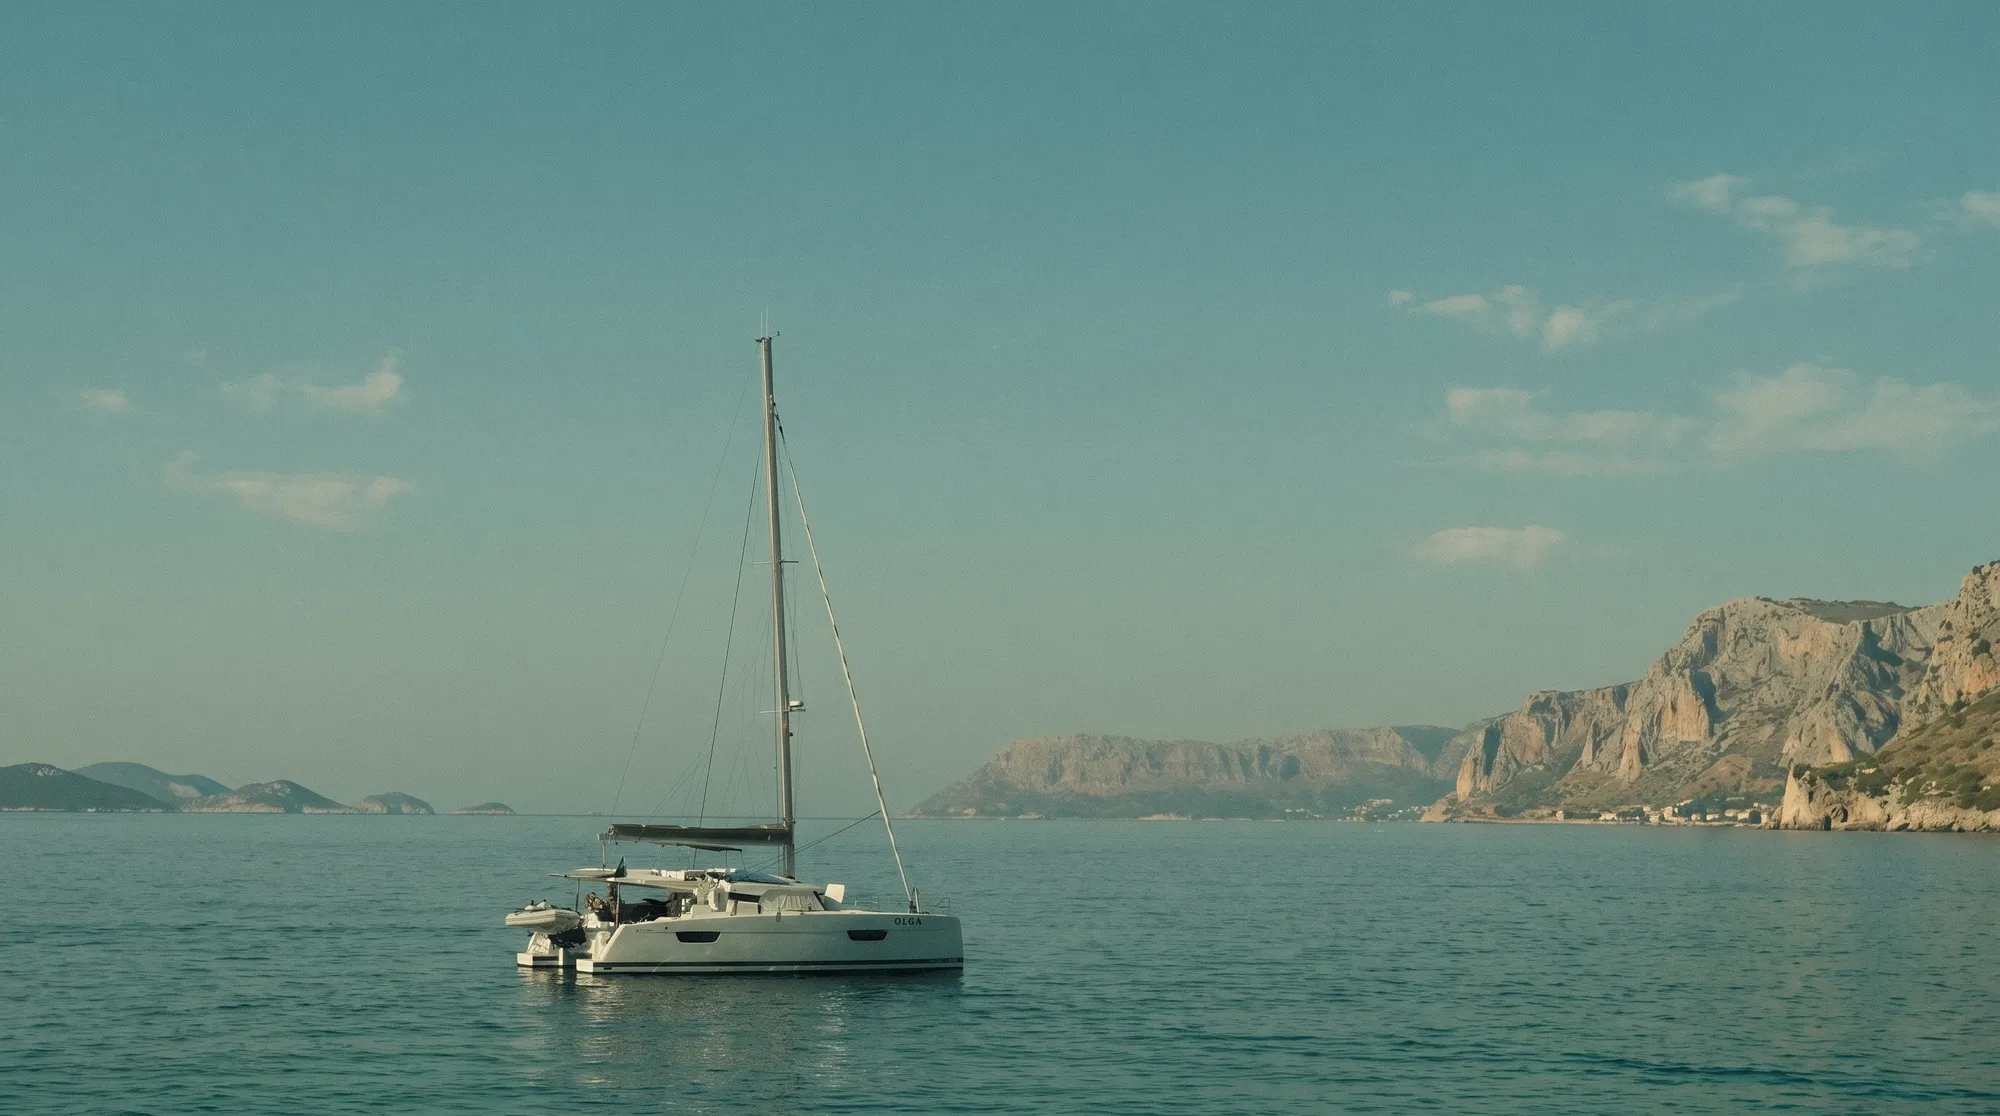
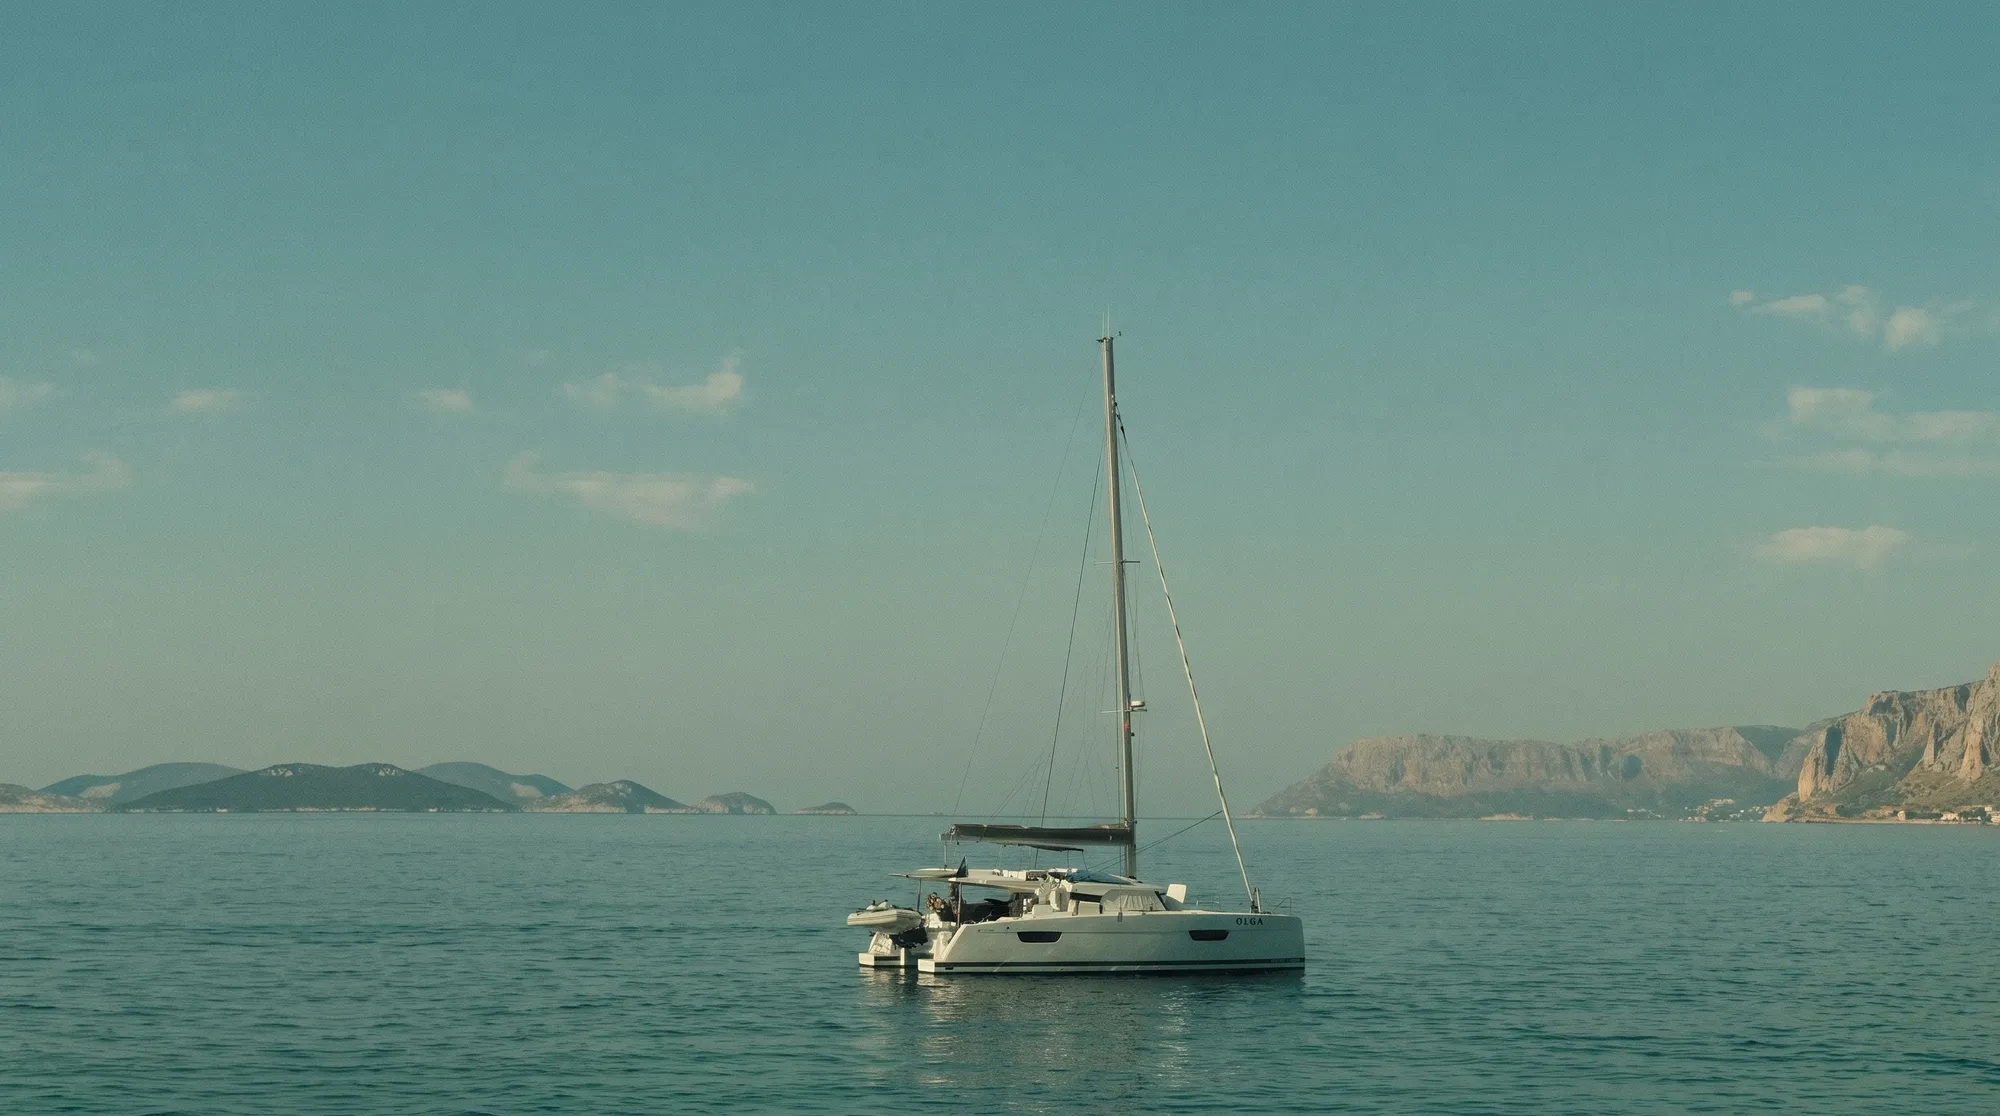
пхукет, ко чанг: программа и фото, сводки маршрутов, фото и карта азор

diff --git a/src/widgets/trips/ui/TripDialog.tsx b/src/widgets/trips/ui/TripDialog.tsx
@@ -40,7 +40,12 @@ export const TripDialog = ({ trip, onClose }: TripDialogProps) => {
   }, [trip])
 
   const noun = tripGroups.find((g) => g.id === trip?.group)?.noun ?? 'Путешествие'
-  const conditions = programs.find((p) => p.id === trip?.group)?.detail.included ?? []
+  const baseConditions = programs.find((p) => p.id === trip?.group)?.detail.included ?? []
+  const ownConditions = trip?.conditions ?? []
+  const conditions = [
+    ...baseConditions.map((c) => ownConditions.find((o) => o.label === c.label) ?? c),
+    ...ownConditions.filter((o) => !baseConditions.some((c) => c.label === o.label)),
+  ]
   const tripReviews = trip ? reviews.filter((r) => trip.reviewIds.includes(r.id)) : []
   const departure =
     trip?.departures.find((d) => d.id === departureId) ?? trip?.departures[0] ?? null
@@ -147,7 +152,20 @@ export const TripDialog = ({ trip, onClose }: TripDialogProps) => {
 
             <section className={styles.block} aria-label="Программа по дням">
               <h4 className={styles.blockTitle}>Программа по дням</h4>
-              <p className={styles.intro}>{route.itinerary.intro}</p>
+              {route.itinerary.summary && (
+                <div className={styles.summary}>
+                  <p className={styles.summaryTitle}>{route.itinerary.summary.title}</p>
+                  <p className={styles.stops}>
+                    {route.itinerary.summary.stops.map((stop, i, all) => (
+                      <span key={`${stop}-${i}`} className={styles.stop}>
+                        {stop}
+                        {i < all.length - 1 && <span className={styles.dash}> —</span>}
+                      </span>
+                    ))}
+                  </p>
+                </div>
+              )}
+              {route.itinerary.intro && <p className={styles.intro}>{route.itinerary.intro}</p>}
               {route.itinerary.days.length > 0 && (
                 <ol className={styles.days}>
                   {route.itinerary.days.map((day) => (

diff --git a/src/shared/content/schema.ts b/src/shared/content/schema.ts
@@ -23,7 +23,9 @@ export const itineraryDaySchema = z.object({
 
 export const itinerarySchema = z.object({
   title: text,
-  intro: text,
+  // короткая сводка нитки: «Кольцо по островам …» и точки через тире
+  summary: z.object({ title: text, stops: z.array(text).min(2) }).optional(),
+  intro: text.optional(),
   days: z.array(itineraryDaySchema),
   note: text,
 })
@@ -73,6 +75,8 @@ export const tripSchema = z
     coverAlt: text,
     photos: z.array(photoSchema),
     included: z.array(text).optional(),
+    // свои пункты «Условий»: заменяют пункт программы с тем же label, новые добавляются в конец
+    conditions: z.array(z.object({ label: text, text: text })).optional(),
     video: z.object({ href: z.string().url(), label: text }).optional(),
     reviewIds: z.array(z.string()).default([]),
     harbor: harborSchema,

diff --git a/src/widgets/trips/ui/TripDialog.module.css b/src/widgets/trips/ui/TripDialog.module.css
@@ -251,6 +251,39 @@
   overflow-wrap: anywhere;
 }
 
+.summary {
+  display: grid;
+  gap: 4px;
+  max-width: 58ch;
+}
+
+.summaryTitle {
+  margin: 0;
+  font-weight: 600;
+  color: var(--ink);
+}
+
+.stops {
+  margin: 0;
+  line-height: 1.65;
+  color: var(--body);
+  text-wrap: pretty;
+}
+
+.stops {
+  display: flex;
+  flex-wrap: wrap;
+  column-gap: 0.35em;
+}
+
+.stop {
+  white-space: nowrap;
+}
+
+.dash {
+  color: var(--coral-ink);
+}
+
 .intro {
   color: var(--muted);
   line-height: 1.65;

diff --git a/src/widgets/hero/ui/Hero.module.css b/src/widgets/hero/ui/Hero.module.css
@@ -82,9 +82,9 @@
 }
 
 @media (max-width: 768px) {
-  /* лодка стоит левее центра кадра — сдвигаем, чтобы она не обрезалась на телефоне */
+  /* лодка стоит чуть правее центра кадра (кадр расширен слева) — держим её в кадре на телефоне */
   .hero {
-    background-position: 34% center;
+    background-position: 53% center;
   }
 
   .content {
